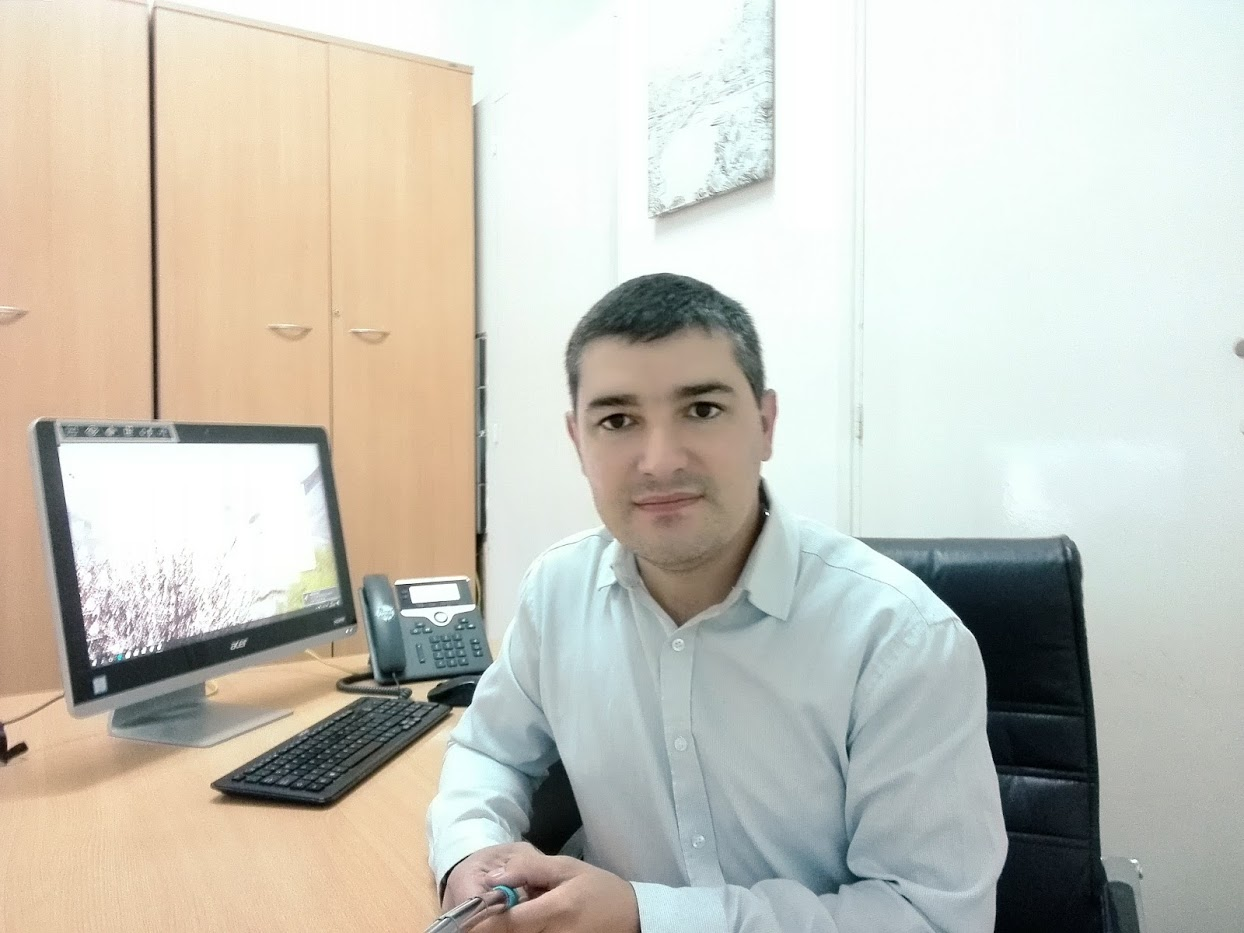
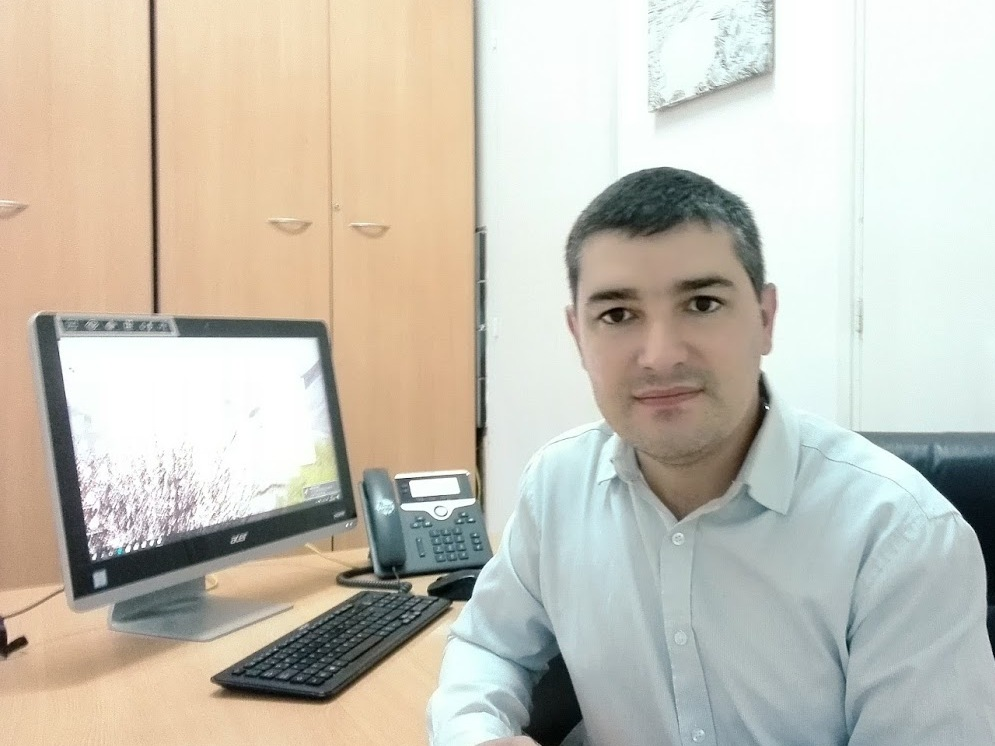
arreglos en target

diff --git a/index.html b/index.html
@@ -83,7 +83,7 @@
       <div class="secundario col-xl-4 col-md-6 col-sm-12">
         <div class="container mt-3">
           <div class="card">
-            <img src="./images/portada.jpg" class="card-img-top" alt="joaquin">
+            <img src="./images/profile4.jpg" class="card-img-top" alt="joaquin">
             <div class="card-body">
               <h5 class="card-title">Joaquín Gonzalez del Solar</h5>
               <p class="card-text">Electronic engineer</p>
